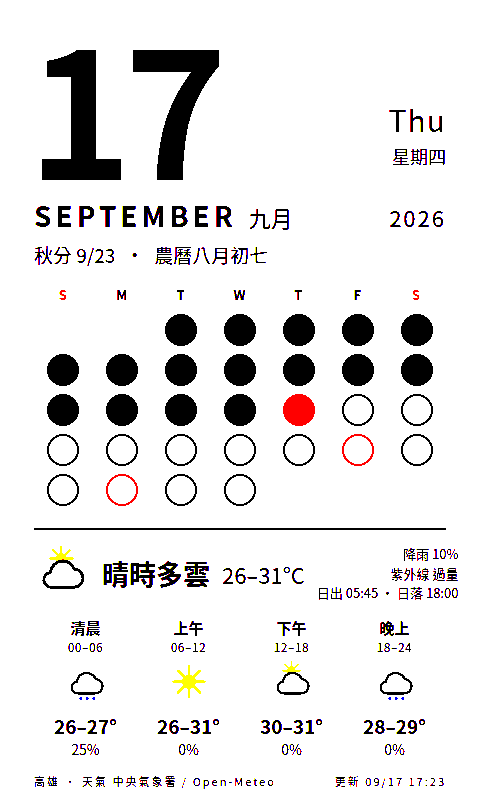
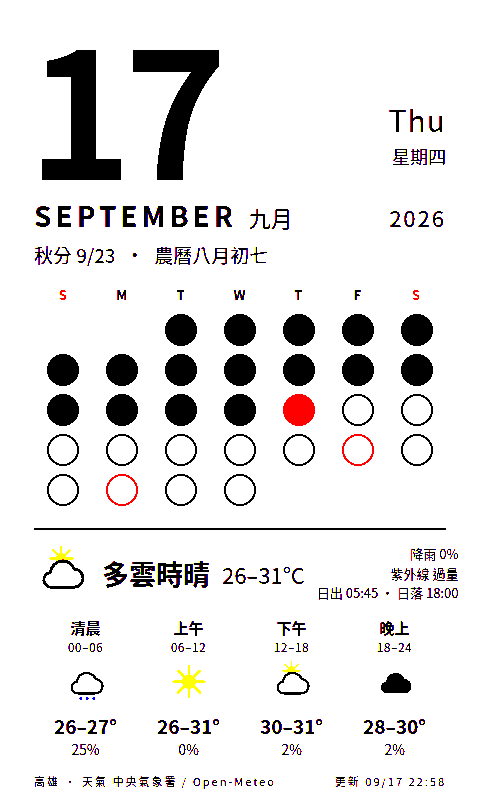
deploy: cf7d1051eb6821bc691ba0ade4beb12cdf9fe0ef

diff --git a/calendar.html b/calendar.html
@@ -54,9 +54,9 @@
   <div class="today"><span class="lunar">秋分 9/23</span><span>·</span><span class="lunar">農曆八月初七</span></div>
   <div class="grid"><div class="h we">S</div><div class="h">M</div><div class="h">T</div><div class="h">W</div><div class="h">T</div><div class="h">F</div><div class="h we">S</div><div class="dot empty"></div><div class="dot empty"></div><div class="dot past" title="1"></div><div class="dot past" title="2"></div><div class="dot past" title="3"></div><div class="dot past" title="4"></div><div class="dot past" title="5"></div><div class="dot past" title="6"></div><div class="dot past" title="7"></div><div class="dot past" title="8"></div><div class="dot past" title="9"></div><div class="dot past" title="10"></div><div class="dot past" title="11"></div><div class="dot past" title="12"></div><div class="dot past" title="13"></div><div class="dot past" title="14"></div><div class="dot past" title="15"></div><div class="dot past" title="16"></div><div class="dot now" title="17"></div><div class="dot future" title="18"></div><div class="dot future" title="19"></div><div class="dot future" title="20"></div><div class="dot future" title="21"></div><div class="dot future" title="22"></div><div class="dot future" title="23"></div><div class="dot future" title="24"></div><div class="dot future hol" title="25"></div><div class="dot future" title="26"></div><div class="dot future" title="27"></div><div class="dot future hol" title="28"></div><div class="dot future" title="29"></div><div class="dot future" title="30"></div></div>
   <div class="wx"><div class="line">
-    <div class="wxhead"><svg viewBox="0 0 64 68" xmlns="http://www.w3.org/2000/svg"><g transform="translate(12 -4) scale(.6)"><circle cx="32" cy="32" r="11" fill="#f5c400"/><g stroke="#f5c400" stroke-width="4" stroke-linecap="round"><line x1="32" y1="32" x2="32" y2="8" transform="rotate(0 32 32)"/><line x1="32" y1="32" x2="32" y2="8" transform="rotate(45 32 32)"/><line x1="32" y1="32" x2="32" y2="8" transform="rotate(90 32 32)"/><line x1="32" y1="32" x2="32" y2="8" transform="rotate(135 32 32)"/><line x1="32" y1="32" x2="32" y2="8" transform="rotate(180 32 32)"/><line x1="32" y1="32" x2="32" y2="8" transform="rotate(225 32 32)"/><line x1="32" y1="32" x2="32" y2="8" transform="rotate(270 32 32)"/><line x1="32" y1="32" x2="32" y2="8" transform="rotate(315 32 32)"/></g></g><path d="M20 50h26a11 11 0 0 0 1-22 15 15 0 0 0-29 4 9 9 0 0 0 2 18z" fill="#fff" stroke="#000" stroke-width="3.5" stroke-linejoin="round"/></svg><span class="desc">晴時多雲</span><span class="temp">26–31°C</span>
-      <div class="meta">降雨 10%<br>紫外線 過量<br>日出 05:45 · 日落 18:00</div></div>
-    <div class="slots"><div class="slot"><div class="n">清晨</div><div class="hrs">00–06</div><svg viewBox="0 0 64 68" xmlns="http://www.w3.org/2000/svg"><path d="M20 50h26a11 11 0 0 0 1-22 15 15 0 0 0-29 4 9 9 0 0 0 2 18z" fill="#fff" stroke="#000" stroke-width="3.5" stroke-linejoin="round"/><g fill="#0040ff"><circle cx="24" cy="58" r="2.2"/><circle cx="34" cy="58" r="2.2"/><circle cx="44" cy="58" r="2.2"/></g></svg><div class="t">26–27°</div><div class="p dry">25%</div></div><div class="slot"><div class="n">上午</div><div class="hrs">06–12</div><svg viewBox="0 0 64 68" xmlns="http://www.w3.org/2000/svg"><circle cx="32" cy="32" r="11" fill="#f5c400"/><g stroke="#f5c400" stroke-width="4" stroke-linecap="round"><line x1="32" y1="32" x2="32" y2="8" transform="rotate(0 32 32)"/><line x1="32" y1="32" x2="32" y2="8" transform="rotate(45 32 32)"/><line x1="32" y1="32" x2="32" y2="8" transform="rotate(90 32 32)"/><line x1="32" y1="32" x2="32" y2="8" transform="rotate(135 32 32)"/><line x1="32" y1="32" x2="32" y2="8" transform="rotate(180 32 32)"/><line x1="32" y1="32" x2="32" y2="8" transform="rotate(225 32 32)"/><line x1="32" y1="32" x2="32" y2="8" transform="rotate(270 32 32)"/><line x1="32" y1="32" x2="32" y2="8" transform="rotate(315 32 32)"/></g></svg><div class="t">26–31°</div><div class="p dry">0%</div></div><div class="slot"><div class="n">下午</div><div class="hrs">12–18</div><svg viewBox="0 0 64 68" xmlns="http://www.w3.org/2000/svg"><g transform="translate(12 -4) scale(.6)"><circle cx="32" cy="32" r="11" fill="#f5c400"/><g stroke="#f5c400" stroke-width="4" stroke-linecap="round"><line x1="32" y1="32" x2="32" y2="8" transform="rotate(0 32 32)"/><line x1="32" y1="32" x2="32" y2="8" transform="rotate(45 32 32)"/><line x1="32" y1="32" x2="32" y2="8" transform="rotate(90 32 32)"/><line x1="32" y1="32" x2="32" y2="8" transform="rotate(135 32 32)"/><line x1="32" y1="32" x2="32" y2="8" transform="rotate(180 32 32)"/><line x1="32" y1="32" x2="32" y2="8" transform="rotate(225 32 32)"/><line x1="32" y1="32" x2="32" y2="8" transform="rotate(270 32 32)"/><line x1="32" y1="32" x2="32" y2="8" transform="rotate(315 32 32)"/></g></g><path d="M20 50h26a11 11 0 0 0 1-22 15 15 0 0 0-29 4 9 9 0 0 0 2 18z" fill="#fff" stroke="#000" stroke-width="3.5" stroke-linejoin="round"/></svg><div class="t">30–31°</div><div class="p dry">0%</div></div><div class="slot"><div class="n">晚上</div><div class="hrs">18–24</div><svg viewBox="0 0 64 68" xmlns="http://www.w3.org/2000/svg"><path d="M20 50h26a11 11 0 0 0 1-22 15 15 0 0 0-29 4 9 9 0 0 0 2 18z" fill="#fff" stroke="#000" stroke-width="3.5" stroke-linejoin="round"/><g fill="#0040ff"><circle cx="24" cy="58" r="2.2"/><circle cx="34" cy="58" r="2.2"/><circle cx="44" cy="58" r="2.2"/></g></svg><div class="t">28–29°</div><div class="p dry">0%</div></div></div>
+    <div class="wxhead"><svg viewBox="0 0 64 68" xmlns="http://www.w3.org/2000/svg"><g transform="translate(12 -4) scale(.6)"><circle cx="32" cy="32" r="11" fill="#f5c400"/><g stroke="#f5c400" stroke-width="4" stroke-linecap="round"><line x1="32" y1="32" x2="32" y2="8" transform="rotate(0 32 32)"/><line x1="32" y1="32" x2="32" y2="8" transform="rotate(45 32 32)"/><line x1="32" y1="32" x2="32" y2="8" transform="rotate(90 32 32)"/><line x1="32" y1="32" x2="32" y2="8" transform="rotate(135 32 32)"/><line x1="32" y1="32" x2="32" y2="8" transform="rotate(180 32 32)"/><line x1="32" y1="32" x2="32" y2="8" transform="rotate(225 32 32)"/><line x1="32" y1="32" x2="32" y2="8" transform="rotate(270 32 32)"/><line x1="32" y1="32" x2="32" y2="8" transform="rotate(315 32 32)"/></g></g><path d="M20 50h26a11 11 0 0 0 1-22 15 15 0 0 0-29 4 9 9 0 0 0 2 18z" fill="#fff" stroke="#000" stroke-width="3.5" stroke-linejoin="round"/></svg><span class="desc">多雲時晴</span><span class="temp">26–31°C</span>
+      <div class="meta">降雨 0%<br>紫外線 過量<br>日出 05:45 · 日落 18:00</div></div>
+    <div class="slots"><div class="slot"><div class="n">清晨</div><div class="hrs">00–06</div><svg viewBox="0 0 64 68" xmlns="http://www.w3.org/2000/svg"><path d="M20 50h26a11 11 0 0 0 1-22 15 15 0 0 0-29 4 9 9 0 0 0 2 18z" fill="#fff" stroke="#000" stroke-width="3.5" stroke-linejoin="round"/><g fill="#0040ff"><circle cx="24" cy="58" r="2.2"/><circle cx="34" cy="58" r="2.2"/><circle cx="44" cy="58" r="2.2"/></g></svg><div class="t">26–27°</div><div class="p dry">25%</div></div><div class="slot"><div class="n">上午</div><div class="hrs">06–12</div><svg viewBox="0 0 64 68" xmlns="http://www.w3.org/2000/svg"><circle cx="32" cy="32" r="11" fill="#f5c400"/><g stroke="#f5c400" stroke-width="4" stroke-linecap="round"><line x1="32" y1="32" x2="32" y2="8" transform="rotate(0 32 32)"/><line x1="32" y1="32" x2="32" y2="8" transform="rotate(45 32 32)"/><line x1="32" y1="32" x2="32" y2="8" transform="rotate(90 32 32)"/><line x1="32" y1="32" x2="32" y2="8" transform="rotate(135 32 32)"/><line x1="32" y1="32" x2="32" y2="8" transform="rotate(180 32 32)"/><line x1="32" y1="32" x2="32" y2="8" transform="rotate(225 32 32)"/><line x1="32" y1="32" x2="32" y2="8" transform="rotate(270 32 32)"/><line x1="32" y1="32" x2="32" y2="8" transform="rotate(315 32 32)"/></g></svg><div class="t">26–31°</div><div class="p dry">0%</div></div><div class="slot"><div class="n">下午</div><div class="hrs">12–18</div><svg viewBox="0 0 64 68" xmlns="http://www.w3.org/2000/svg"><g transform="translate(12 -4) scale(.6)"><circle cx="32" cy="32" r="11" fill="#f5c400"/><g stroke="#f5c400" stroke-width="4" stroke-linecap="round"><line x1="32" y1="32" x2="32" y2="8" transform="rotate(0 32 32)"/><line x1="32" y1="32" x2="32" y2="8" transform="rotate(45 32 32)"/><line x1="32" y1="32" x2="32" y2="8" transform="rotate(90 32 32)"/><line x1="32" y1="32" x2="32" y2="8" transform="rotate(135 32 32)"/><line x1="32" y1="32" x2="32" y2="8" transform="rotate(180 32 32)"/><line x1="32" y1="32" x2="32" y2="8" transform="rotate(225 32 32)"/><line x1="32" y1="32" x2="32" y2="8" transform="rotate(270 32 32)"/><line x1="32" y1="32" x2="32" y2="8" transform="rotate(315 32 32)"/></g></g><path d="M20 50h26a11 11 0 0 0 1-22 15 15 0 0 0-29 4 9 9 0 0 0 2 18z" fill="#fff" stroke="#000" stroke-width="3.5" stroke-linejoin="round"/></svg><div class="t">30–31°</div><div class="p dry">2%</div></div><div class="slot"><div class="n">晚上</div><div class="hrs">18–24</div><svg viewBox="0 0 64 68" xmlns="http://www.w3.org/2000/svg"><path d="M20 50h26a11 11 0 0 0 1-22 15 15 0 0 0-29 4 9 9 0 0 0 2 18z" fill="#000"/></svg><div class="t">28–30°</div><div class="p dry">2%</div></div></div>
   </div></div>
-  <div class="foot"><span>高雄 · 天氣 中央氣象署 / Open-Meteo</span><span>更新 09/17 17:23</span></div>
+  <div class="foot"><span>高雄 · 天氣 中央氣象署 / Open-Meteo</span><span>更新 09/17 22:58</span></div>
 </div></body></html>
